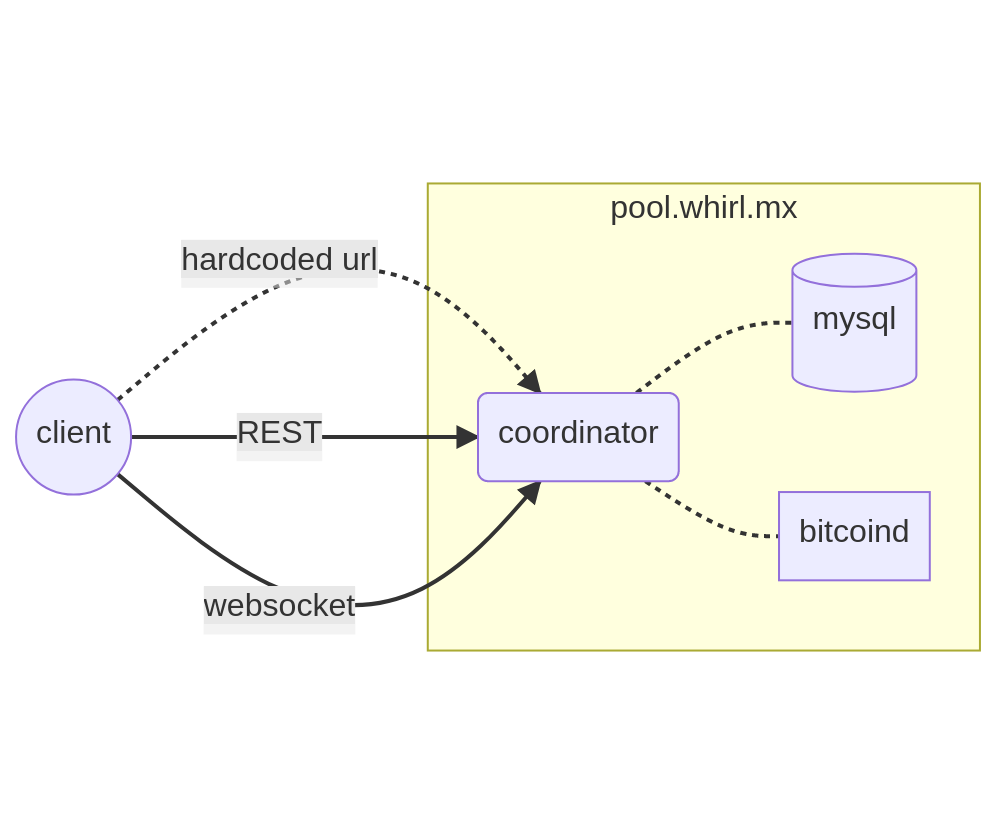
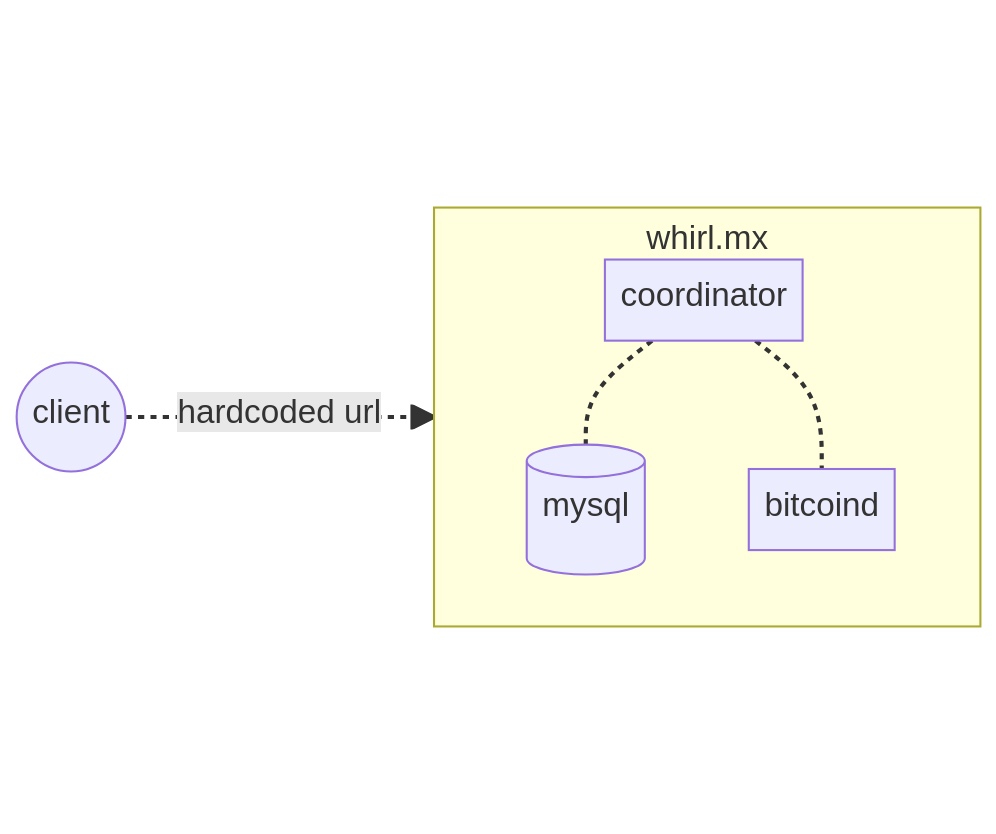
add dex proposal

diff --git a/src/main/java/com/samourai/whirlpool/server/services/DbService.java b/src/main/java/com/samourai/whirlpool/server/services/DbService.java
@@ -25,9 +25,10 @@ public class DbService {
   private Tx0WhitelistRepository tx0WhitelistRepository;
   private MixOutputRepository mixOutputRepository;
   private MixTxidRepository mixTxidRepository;
-  private MixStats mixStats; // cached value
   private BlameRepository blameRepository;
   private BanRepository banRepository;
+
+  private MixStats mixStats; // cached value
 
   public DbService(
       MixRepository mixRepository,

diff --git a/feature-dex/README-whirlpool.md b/feature-dex/README-whirlpool.md
@@ -1,0 +1,75 @@
+# DECENTRALIZING WHIRLPOOL COORDINATOR
+
+
+## I. Current architecture
+- 1 coordinator instance
+    * using a MySQL server (to store banned clients, mix history, postmix address reuse...)
+    * using a bitcoin node
+- coordinator URL is hardcoded into client: `pool.whirl.mx`
+
+![](charts/current-architecture.png)
+
+
+Main issues:
+- censorship: slow to recover if pool.whirl.mx were blacklisted (would require updating all clients with new hardcoded address)
+- DDOS: single coordinator is an easy target
+- scaling: coordinator is handling growing whirlpool traffic (900+ websocket connexions)
+- mixing downtimes during coordinator upgrades
+
+Constraints for upgrading current architecture:
+- coordinator side:
+    * coordinator requires a centralized MYSQL database (for storing mix history, banned users, postmix address-reuse...)
+- client side: 
+    * keep changes as small as possible for client to make upgrade easier for whirlpool partners
+    * keep current mixing protocol unchanged
+
+    
+## II. Proposal
+
+### 1. Coordinator side
+- spawn multiple coordinator instances (same config)
+- each intance has its own url clearnet + onion
+- each instance is connected to a shared mysql database:
+    * clients are banned from all instances simultaneously
+    * postmix address reuse protection across all instances
+    * "status dashboard" shows all instances activity. The dashboard is accessible from any instance.
+![](charts/proposal-coordinators.png)
+
+
+
+### 2. Pools repartition
+
+- pools are repartited among coordinator instances
+- each instance is responsible of [0-N] pools and manages pool's liquidities and mixs
+- if there are more instances than pools, additional instances are IDLE. They will be assigned to a pool when an active instance goes offline
+![](charts/proposal-sync.png)
+
+- when an instance goes offline:
+    * orphean pools are reassigned across active instances
+    * mixing clients from orphean pools a disconnected and reconnect to the new instance
+![](charts/proposal-sync-offline.png)
+
+
+- if only one instance up, it's managing every pools:
+![](charts/proposal-sync-single.png)
+
+- synchronization is in real time by using the shared MySQL database
+
+
+### 3. Client side
+- client has an hardcoded bootstrap node list locally
+- client connects to a random instance from the bootstrap list
+![](charts/proposal-client-connect.png)
+
+- if the random instance is not responsible of client's mixing pool, client gets redirected to the responsible instance
+- client connects to this instance and starts mixing as usual
+
+![](charts/proposal-client-redirect-simple.png)
+
+
+### 4. Remarks
+- decentralization is 100% transparent to the client
+- no protocol upgrade (except instance redirection response)
+- coordinator instances are synchronized in real-time with the shared MySQL database
+- no need to implement Soroban client for mixing
+

diff --git a/feature-dex/README.md b/feature-dex/README.md
@@ -1,61 +1,19 @@
-# COORDINATOR DECENTRALIZATION
+# DECENTRALIZING WHIRLPOOL COORDINATOR
 
 
 ## I. Current architecture
-### 1. Overview
+![](charts/current-architecture-global.png)
 
-![](charts/current-architecture.png)
-
-- 1 coordinator instance
-    * using a MySQL server
-    * using a bitcoin node
-- coordinator URL is hardcoded into client
-
-### 2. Current architecture issues
-- censorship: slow to recover if pool.whirl.mx were blacklisted (would require updating all clients with new hardcoded address)
-- DDOS: single coordinator instance handles all whirlpool traffic, it's an easy target
+- URLs are hardcoded into Java librairies
 
 
-### 3. Upgrade constraints
-Constraints for upgrading current architecture:
-- client side: 
-    * keep changes as small as possible for client to make upgrade easier for whirlpool partners
-    * keep current mixing protocol unchanged
-    * ideally upgrade would be almost transparent to client  
-- coordinator side:
-    * all coordinator instances should share a centralized MYSQL database (for storing mix history, banned users, postmix address-reuse...)
+## II. Decentralizing Whirlpool
+See [README-whirlpool.md](README-whirlpool.md)
 
 
-    
-## II. Proposal
-
-### 1. Coordinator side
-![](charts/proposal-coordinators.png)
-- multiple coordinator instances can be launched
-- each intance has its own url clearnet + onion
-- instances connect to a shared mysql database
+## III. Decentralizing Soroban
+TODO
 
 
-### 2. Pools repartition
-
-![](charts/proposal-sync.png)
-
-- each mixing pool is assigned to one instance
-- each instance can manage [0-N] pools
-    * if only one instance up, it's managing every pools
-    * if there are more instances than pools, additional instances will stay online but with no pool assigned. It will wait for being assigned to a pool when an active instance is going down.
-
-- a pool is managed by only one instance at a time:
-    * all liquidities of a same pool are connected to the same instance
-    
-- when an instance gets offline, unassigned pools are assigned to active instances
-    * mixing clients will be disconnected and reconnect to the new instance
-    * instances can be synchronized through the shared MySQL database
-
-
-### 3. Client side
-- client has an hardcoded bootstrap node list to fetch active instances at startup
-- client connects to a random instance and starts mixing as usual
-- if instance is not assigned to client's mixing pool, it automatically gets redirected to the good one
-- upgrade is almost 100% transparent to the client. It only has to handle instance redirection.
-
+## IV. Decentralizing Samourai backend
+TODO

diff --git a/feature-dex/charts/proposal-coordinators.md b/feature-dex/charts/proposal-coordinators.md
@@ -1,18 +1,27 @@
 flowchart TB
 
-mysql[(mysql)] -.- coordinator1
-mysql[(mysql)] -.- coordinator2
-mysql[(mysql)] -.- coordinator3
+mysql[(mysql)] --- coordinator1
+mysql[(mysql)] --- coordinator2
+mysql[(mysql)] --- coordinator3
+mysql[(mysql)] --- coordinator4
 
-subgraph pool.whirl1.mx
-    coordinator1 -.- bitcoind[bitcoind]
+subgraph whirl4.mx
+    coordinator4 -.- bitcoind4[bitcoind3]
 end
 
-subgraph pool.whirl2.mx
-    coordinator2 -.- bitcoind2[bitcoind2]
-end
-
-subgraph pool.whirl3.mx
+subgraph whirl3.mx
     coordinator3 -.- bitcoind3[bitcoind3]
 end
 
+subgraph whirl2.mx
+    coordinator2 -.- bitcoind2[bitcoind2]
+end
+
+subgraph whirl1.mx
+    coordinator1 -.- bitcoind[bitcoind1]
+end
+
+whirl1.mx --- dashboard([unified status dashboard])
+whirl2.mx --- dashboard
+whirl3.mx --- dashboard
+whirl4.mx --- dashboard

diff --git a/feature-dex/charts/proposal-sync-offline.md b/feature-dex/charts/proposal-sync-offline.md
@@ -1,14 +1,11 @@
 flowchart TD
 
-whirl1.mx -.- sync[(sync)]
 whirl2.mx -.- sync[(sync)]
 whirl3.mx -.- sync[(sync)]
 whirl4.mx -.- sync[(sync)]
 whirl5.mx -.- sync[(sync)]
 
-subgraph whirl1.mx
-    
-end
+whirl1.mx[whirl1.mx<br>- offline -]
 
 subgraph whirl2.mx
     
@@ -27,14 +24,17 @@ subgraph whirl5.mx
 end
 
 05btc([0.5btc]) --> whirl2.mx
-005btc([0.05btc]) --> whirl1.mx
+005btc([0.05btc]) -->|reassigned| whirl5.mx
 0001btc([0.001btc]) --> whirl3.mx
 001btc([0.01btc]) --> whirl4.mx
-IDLE --> whirl5.mx
+
+
+
 
 
 classDef instance fill:#ffffde,stroke:#c0c066;
-class whirl1.mx instance;
+classDef offline fill:pink,stroke:red;
+class whirl1.mx offline;
 class whirl2.mx instance;
 class whirl3.mx instance;
 class whirl4.mx instance;

diff --git a/feature-dex/charts/proposal-client-redirect.md b/feature-dex/charts/proposal-client-redirect.md
@@ -1,0 +1,17 @@
+sequenceDiagram
+    autonumber
+
+    participant Client
+    participant pool3 as whirl3.mx<br>[0.01btc & 0.001btc]
+    participant pool2 as whirl2.mx<br>[0.5btc]
+
+    Note left of Client: Client wants to mix on 0.5btc
+    Note left of Client: Read local bootstrap instances list...<br>Connect to a random instance: whirl3.mx
+
+    Client->>+pool3: REGISTER_INPUT [0.5btc]
+    Note right of pool3: instance is not assigned to 0.5btc<br>it redirects client to the appropriate instance
+    pool3-->>-Client: RedirectToInstance: whirl2.mx
+
+    Client->>+pool2: REGISTER_INPUT [0.5btc]
+    pool2->>+pool2: start mixing...
+    

diff --git a/feature-dex/charts/proposal-client-redirect-simple.md b/feature-dex/charts/proposal-client-redirect-simple.md
@@ -1,0 +1,13 @@
+flowchart TD
+client((client<br>for 0.5btc)) -.->|random instance| whirl1.mx[whirl1.mx<br>0.01bt]
+whirl2.mx[whirl1.mx<br>0.5btc]
+whirl3.mx[whirl1.mx<br>0.05btc]
+whirl4.mx[whirl4.mx<br>0.001btc]
+
+whirl1.mx-.->|redirects to<br>responsible instance|whirl2.mx
+
+classDef instance fill:#ffffde,stroke:#c0c066;
+class whirl1.mx instance;
+class whirl2.mx instance;
+class whirl3.mx instance;
+class whirl4.mx instance;

diff --git a/feature-dex/charts/proposal-client-connect.md b/feature-dex/charts/proposal-client-connect.md
@@ -1,0 +1,13 @@
+flowchart TD
+list[hardcoded bootstrap nodes:<br>whirl1.mx, whirl2.mx,<br>whirl3.mx, whirl4.mx...] --- client((client))
+client -.->|random instance| whirl1.mx
+client -.-> whirl2.mx
+client -.-> whirl3.mx
+client -.-> whirl4.mx
+
+
+classDef instance fill:#ffffde,stroke:#c0c066;
+class whirl1.mx instance;
+class whirl2.mx instance;
+class whirl3.mx instance;
+class whirl4.mx instance;

diff --git a/feature-dex/charts/current-architecture.md b/feature-dex/charts/current-architecture.md
@@ -1,10 +1,8 @@
-graph LR
-client((client)) -.->|hardcoded url| coordinator(coordinator)
-client -->|REST| coordinator
-client -->|websocket| coordinator
+flowchart LR
+client((client)) -.->|hardcoded url| whirl.mx
 
 
-subgraph pool.whirl.mx
+subgraph whirl.mx
     coordinator -.- mysql[(mysql)]
     coordinator -.- bitcoind[bitcoind]
 end

diff --git a/feature-dex/charts/proposal-architecture-global.md b/feature-dex/charts/proposal-architecture-global.md
@@ -1,0 +1,12 @@
+flowchart TD
+list[hardcoded bootstrap nodes:<br>soroban1, soroban2...] --- client((client))
+client --->|random<br>soroban node| soroban1
+soroban1 -->|DexConfig| client
+soroban2
+soroban3
+
+
+classDef instance fill:#ffffde,stroke:#c0c066;
+class soroban1 instance;
+class soroban2 instance;
+class soroban3 instance;

diff --git a/feature-dex/charts/proposal-sync-single.md b/feature-dex/charts/proposal-sync-single.md
@@ -1,0 +1,16 @@
+flowchart TD
+
+whirl1.mx -.- sync[(sync)]
+
+
+05btc([0.5btc]) --> whirl1.mx
+005btc([0.05btc]) --> whirl1.mx
+0001btc([0.001btc]) --> whirl1.mx
+001btc([0.01btc]) --> whirl1.mx
+
+
+
+
+
+classDef instance fill:#ffffde,stroke:#c0c066;
+class whirl1.mx instance;

diff --git a/feature-dex/charts/current-architecture-global.md b/feature-dex/charts/current-architecture-global.md
@@ -1,0 +1,5 @@
+flowchart LR
+client((client)) -.->|url hardcoded| coordinator[Whirlpool coordinator]
+client((client)) -.->|url hardcoded| soroban
+client((client)) -.->|url hardcoded| backend[Samourai backend]
+
